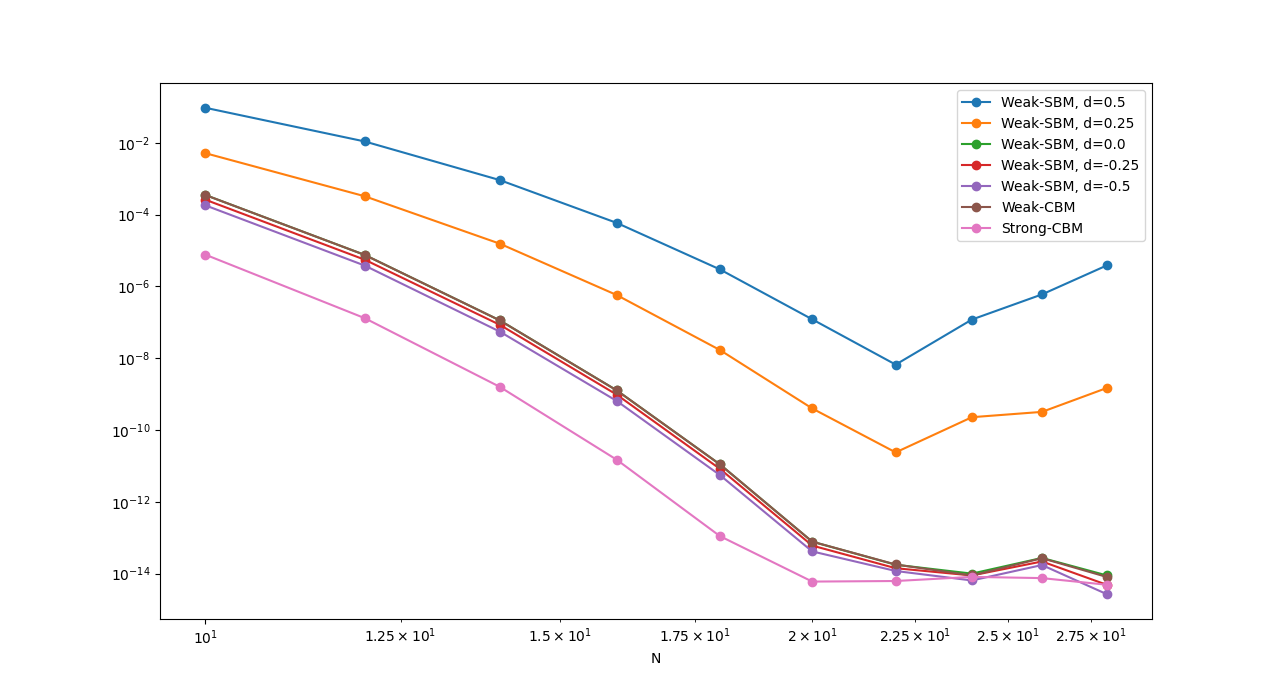
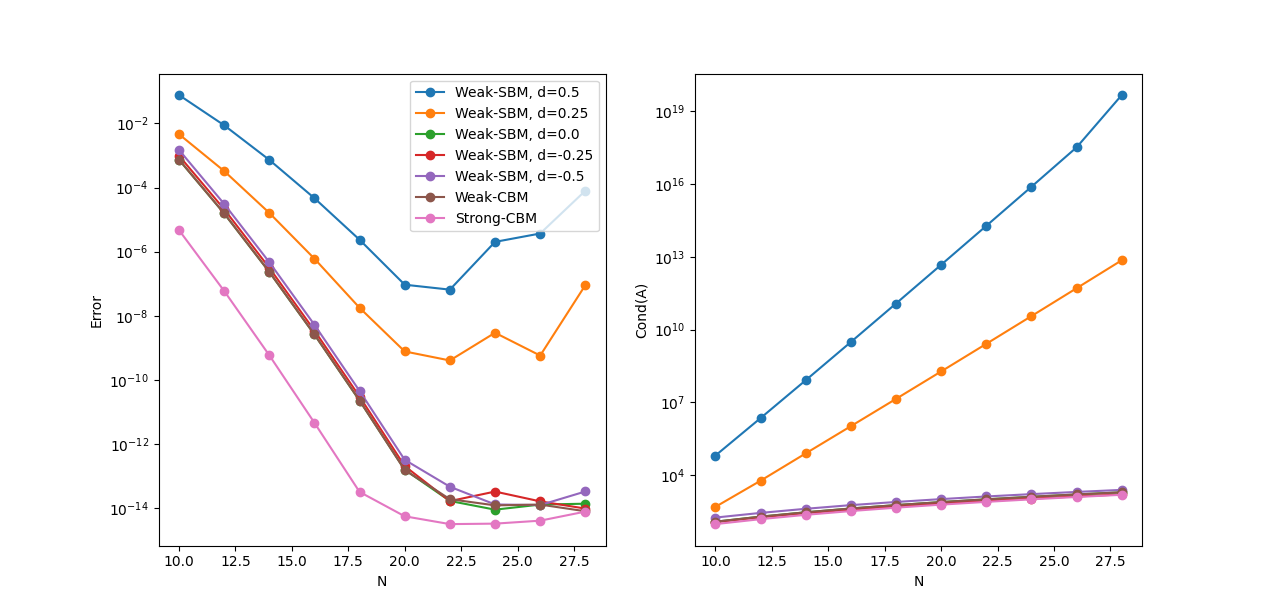
sidste ændringer

diff --git a/Assignment2/Task 4.py b/Assignment2/Task 4.py
@@ -122,9 +122,10 @@ for n in N_list:
     error_strong.append(np.max(np.abs(u_strong-u_exact(x_GL))))
 
 plt.figure()
-plt.loglog(N_list,error_weak,"-o",label="Weak-CBM")
-plt.loglog(N_list,error_strong,"-o",label="Strong-CBM")
+plt.semilogy(N_list,error_weak,"-o",label="Weak-CBM")
+plt.semilogy(N_list,error_strong,"-o",label="Strong-CBM")
 plt.xlabel("N")
+plt.ylabel("Error")
 plt.legend()
 
 #%% Solution with N=6
@@ -194,10 +195,11 @@ for d in d_list:
         error_shifted.append(np.max(np.abs(u_shifted-u_exact(x_GL))))
     
     # Plotting for each d
-    plt.loglog(N_list,error_shifted,"-o",label=f"Weak-SBM, d={d}")
+    plt.semilogy(N_list,error_shifted,"-o",label=f"Weak-SBM, d={d}")
 
 plt.legend()
 plt.xlabel("N")
+plt.ylabel("Error")
 
 #%% All 7 convergence studies
 
@@ -222,16 +224,18 @@ for d in d_list:
         error_shifted.append(np.max(np.abs(u_shifted-u_exact(x_GL))))
     
     # Plotting for each d
-    axs[0].loglog(N_list,error_shifted,"-o",label=f"Weak-SBM, d={d}")
-    axs[1].loglog(N_list,condA_shifted_list,"-o",label=f"Weak-SBM, d={d}")
+    axs[0].semilogy(N_list,error_shifted,"-o",label=f"Weak-SBM, d={d}")
+    axs[1].semilogy(N_list,condA_shifted_list,"-o",label=f"Weak-SBM, d={d}")
 
-axs[0].loglog(N_list,error_weak,"-o",label="Weak-CBM")
-axs[0].loglog(N_list,error_strong,"-o",label="Strong-CBM")
+axs[0].semilogy(N_list,error_weak,"-o",label="Weak-CBM")
+axs[0].semilogy(N_list,error_strong,"-o",label="Strong-CBM")
 axs[0].legend()
 axs[0].set_xlabel("N")
+axs[0].set_ylabel("Error")
 
-axs[1].loglog(N_list,condA_week_list,"-o",label="Weak-CBM")
-axs[1].loglog(N_list,condA_strong_list,"-o",label="Stong-CBM")
+
+axs[1].semilogy(N_list,condA_week_list,"-o",label="Weak-CBM")
+axs[1].semilogy(N_list,condA_strong_list,"-o",label="Stong-CBM")
 axs[1].set_xlabel("N")
 axs[1].set_ylabel("Cond(A)")
 

diff --git a/Assignment2/1g_scalability.py b/Assignment2/1g_scalability.py
@@ -86,7 +86,7 @@ plt.semilogy(N_values,time_dealias,".-",label=r"de-alias")
 plt.semilogy(N_values,time_alias,".-",label=r"alias")
 plt.xlabel(r"$N$")
 plt.ylabel(r"time (s)")
-plt.title("Convergence plot of solver")
+plt.title("Scalability analysis of solver")
 plt.legend()
 
 plt.show()

diff --git a/Assignment2/functions_TIME.py b/Assignment2/functions_TIME.py
@@ -42,7 +42,7 @@ def Dealias(u, v, N, M):
     return w.real
 
 def f(t,u,D,D3,a):
-    return -6*a*u*D@u - a**3 * D3@u
+    return -6*a*u*(D@u) - a**3 * D3@u
 
 def f_alias_free(t,u,D,D3,a,N,M):
     w = Dealias(u, D@u, N, M)
